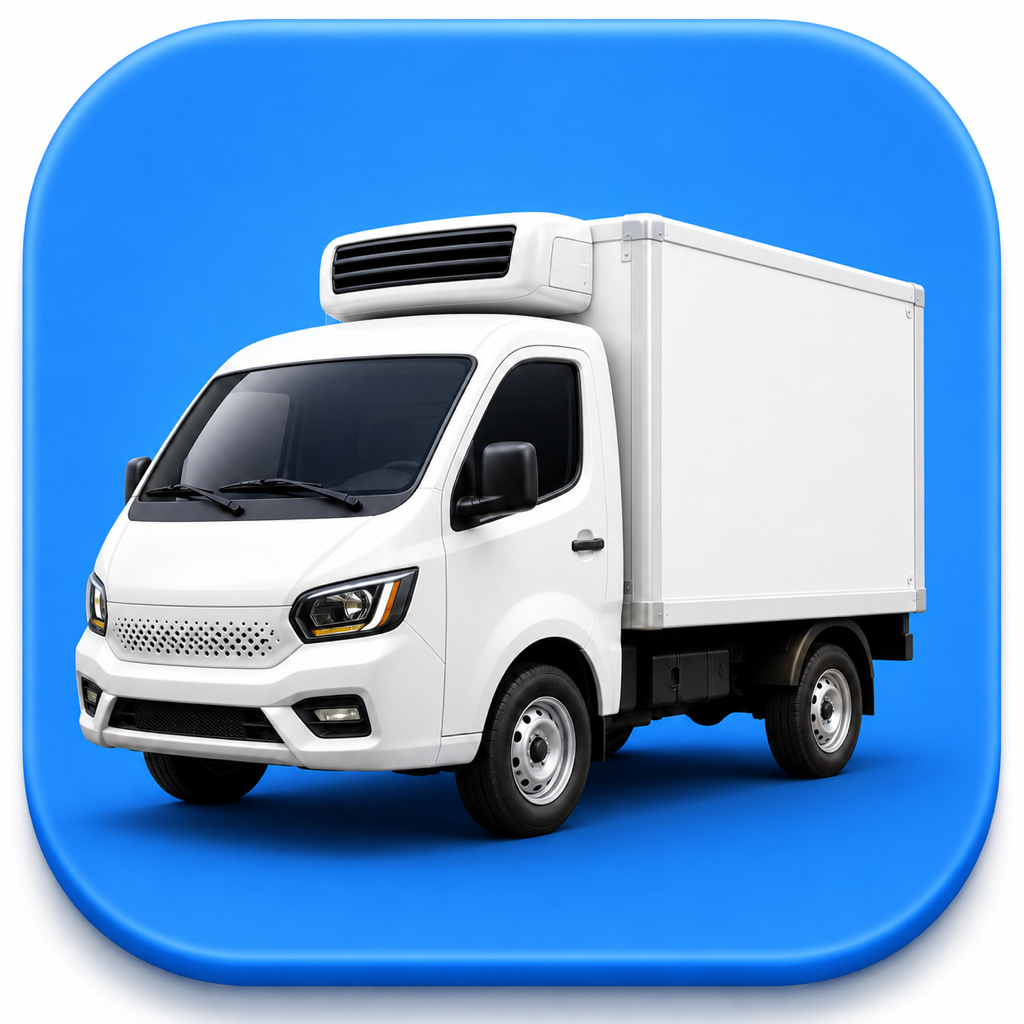
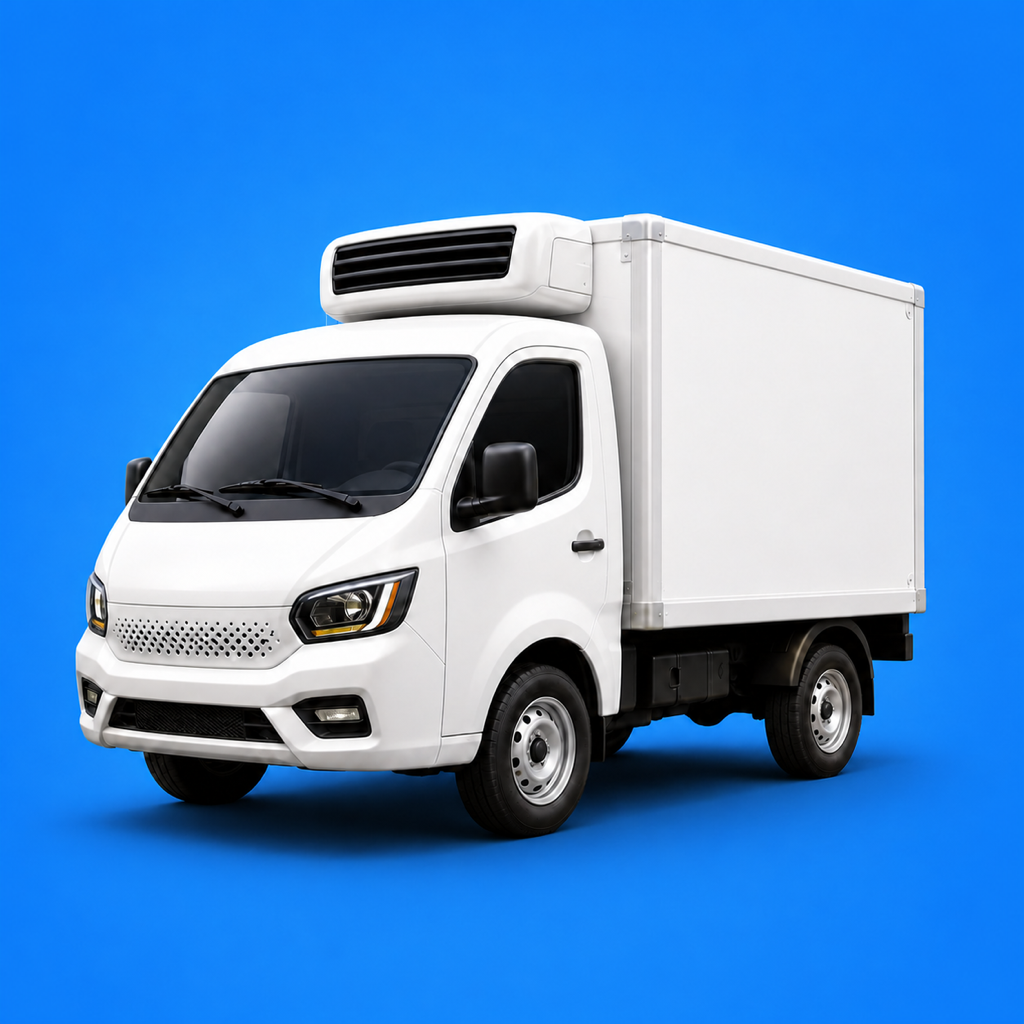
Make the first App Store candidate refreshable and recognizable
Keep native pull-to-refresh available before route selection and replace the preview-framed truck artwork with the full-bleed store icon.

Constraint: App Store review uses a build-embedded 1024px opaque icon and synthetic route screenshots.\nRejected: Add a second refresh button | the existing native gesture already owns refresh behavior.\nConfidence: high\nScope-risk: moderate\nDirective: Keep the App Store icon full-bleed and preserve pull refresh in both select and empty route states.\nTested: npm run check:workspace; npm run lint; npx expo install --check; npm run build:ios; git diff --check; icon 1024x1024 opaque SHA-256 f876b391aebf7f8feda6e70cdcb6dd661eebb818175dd8a5b28724a879f19510\nNot-tested: Signed build 9/TestFlight install and final App Review submission.

diff --git a/src/ui/driver/DriverWorkspace.tsx b/src/ui/driver/DriverWorkspace.tsx
@@ -46,6 +46,7 @@ import type {
 import { resolveAndroidBackAction } from '../../domain/navigation/androidBackNavigation';
 import { DeliveryScreen } from './DeliveryScreen';
 import { DeliveryMapScreen } from './DeliveryMapScreen';
+import { DriverRefreshControl } from './DriverRefreshControl';
 import { DriverSettingsModal } from './DriverSettingsModal';
 import { DeliverySpaceScreen } from './DeliverySpaceScreen';
 
@@ -75,6 +76,7 @@ export function DriverWorkspace({
   const [routeGroup, setRouteGroup] = useState<DriverRouteGroup>('active');
   const [loadAttempt, setLoadAttempt] = useState(0);
   const [isRefreshingRoute, setIsRefreshingRoute] = useState(false);
+  const isPullRefreshingRouteRef = useRef(false);
   const [lastRouteUpdatedAt, setLastRouteUpdatedAt] = useState<Date | null>(null);
   const [selectedRoutePlanId, setSelectedRoutePlanId] = useState<string>();
   const [loadErrorMessage, setLoadErrorMessage] = useState<string>();
@@ -130,7 +132,10 @@ export function DriverWorkspace({
   useEffect(() => {
     let isActive = true;
 
-    if (selectedRoutePlanId === undefined) {
+    if (
+      selectedRoutePlanId === undefined &&
+      !isPullRefreshingRouteRef.current
+    ) {
       void Promise.resolve().then(() => {
         if (isActive) setLoadState('loading');
       });
@@ -178,6 +183,7 @@ export function DriverWorkspace({
           setRoute(null);
           setOrders([]);
           setLoadErrorMessage(undefined);
+          setLastRouteUpdatedAt(new Date());
           setLoadState(mergedRouteChoices.length === 0 ? 'empty' : 'select');
         })
       : (cachedTerminalRoute === undefined
@@ -234,7 +240,10 @@ export function DriverWorkspace({
       );
       setLoadState('error');
     }).finally(() => {
-      if (isActive) setIsRefreshingRoute(false);
+      if (isActive) {
+        isPullRefreshingRouteRef.current = false;
+        setIsRefreshingRoute(false);
+      }
     });
 
     return () => {
@@ -255,6 +264,7 @@ export function DriverWorkspace({
   function refreshRoute() {
     if (isRouteReadOnly || isRefreshingRoute || loadState === 'loading') return;
 
+    isPullRefreshingRouteRef.current = true;
     setIsRefreshingRoute(true);
     setLoadAttempt((attempt) => attempt + 1);
   }
@@ -474,8 +484,11 @@ export function DriverWorkspace({
         ) : null}
         {loadState !== 'ready' || route === null ? (
           <RouteLoadState
+            lastUpdatedAt={lastRouteUpdatedAt}
             message={loadErrorMessage}
+            onRefresh={refreshRoute}
             onRetry={retryRouteLoad}
+            refreshing={isRefreshingRoute}
             state={loadState}
           />
         ) : (
@@ -851,51 +864,69 @@ function routeStatusLabel(status: DriverRouteExecutionStatus): string {
 }
 
 function RouteLoadState({
+  lastUpdatedAt,
   message,
+  onRefresh,
   onRetry,
+  refreshing,
   state,
 }: {
+  lastUpdatedAt: Date | null;
   message?: string;
+  onRefresh(): void;
   onRetry(): void;
+  refreshing: boolean;
   state: 'loading' | 'select' | 'ready' | 'empty' | 'error';
 }) {
   const isLoading = state === 'loading';
-
-  if (state === 'select') {
-    return (
-      <View style={styles.routeState}>
-        <View style={styles.routePlaceholderIcon}>
-          <DeliveryPackageIcon isSelected={false} />
-        </View>
-        <Text style={styles.routePlaceholderText}>
-          배송 날짜를 선택해 주세요
-        </Text>
-      </View>
-    );
-  }
+  const canPullRefresh = state === 'select' || state === 'empty';
 
   return (
-    <View style={styles.routeState}>
-      <Text style={styles.routeStateTitle}>
-        {isLoading
-          ? '배송 정보를 불러오는 중입니다.'
-          : state === 'empty'
-            ? '배정된 배송이 없습니다.'
-            : message ?? '배송 정보를 불러오지 못했습니다.'}
-      </Text>
-      {!isLoading ? (
-        <Pressable
-          accessibilityRole="button"
-          onPress={onRetry}
-          style={({ pressed }) => [
-            styles.retryButton,
-            pressed && styles.buttonPressed,
-          ]}
-        >
-          <Text style={styles.retryButtonText}>다시 불러오기</Text>
-        </Pressable>
-      ) : null}
-    </View>
+    <ScrollView
+      alwaysBounceVertical={canPullRefresh}
+      contentContainerStyle={styles.routeState}
+      refreshControl={canPullRefresh ? (
+        <DriverRefreshControl
+          lastUpdatedAt={lastUpdatedAt}
+          onRefresh={onRefresh}
+          refreshing={refreshing}
+        />
+      ) : undefined}
+      style={styles.routeStateScroll}
+    >
+      {state === 'select' ? (
+        <>
+          <View style={styles.routePlaceholderIcon}>
+            <DeliveryPackageIcon isSelected={false} />
+          </View>
+          <Text style={styles.routePlaceholderText}>
+            배송 날짜를 선택해 주세요
+          </Text>
+        </>
+      ) : (
+        <>
+          <Text style={styles.routeStateTitle}>
+            {isLoading
+              ? '배송 정보를 불러오는 중입니다.'
+              : state === 'empty'
+                ? '배정된 배송이 없습니다.'
+                : message ?? '배송 정보를 불러오지 못했습니다.'}
+          </Text>
+          {!isLoading ? (
+            <Pressable
+              accessibilityRole="button"
+              onPress={onRetry}
+              style={({ pressed }) => [
+                styles.retryButton,
+                pressed && styles.buttonPressed,
+              ]}
+            >
+              <Text style={styles.retryButtonText}>다시 불러오기</Text>
+            </Pressable>
+          ) : null}
+        </>
+      )}
+    </ScrollView>
   );
 }
 
@@ -1139,6 +1170,9 @@ const styles = StyleSheet.create({
     gap: 14,
     justifyContent: 'center',
     padding: 24,
+  },
+  routeStateScroll: {
+    flex: 1,
   },
   routeStateTitle: {
     color: '#475467',

diff --git a/src/ui/driver/driverRefresh.test.ts b/src/ui/driver/driverRefresh.test.ts
@@ -78,6 +78,19 @@ describe('driver page refresh', () => {
     assert.match(workspace, /const \[lastRouteUpdatedAt, setLastRouteUpdatedAt\]/u);
     assert.match(workspace, /setLastRouteUpdatedAt\(new Date\(\)\)/u);
     assert.match(workspace, /onRefresh=\{refreshRoute\}/u);
+    assert.match(
+      workspace,
+      /const canPullRefresh =\s*state === 'select' \|\| state === 'empty'/u,
+    );
+    assert.match(
+      workspace,
+      /refreshControl=\{canPullRefresh \? \([\s\S]*?<DriverRefreshControl[\s\S]*?onRefresh=\{onRefresh\}/u,
+    );
+    assert.match(workspace, /alwaysBounceVertical=\{canPullRefresh\}/u);
+    assert.match(
+      workspace,
+      /selectedRoutePlanId === undefined &&\s*!isPullRefreshingRouteRef\.current/u,
+    );
     assert.match(space, /setLastUpdatedAt\(new Date\(\)\)/u);
   });
 });
